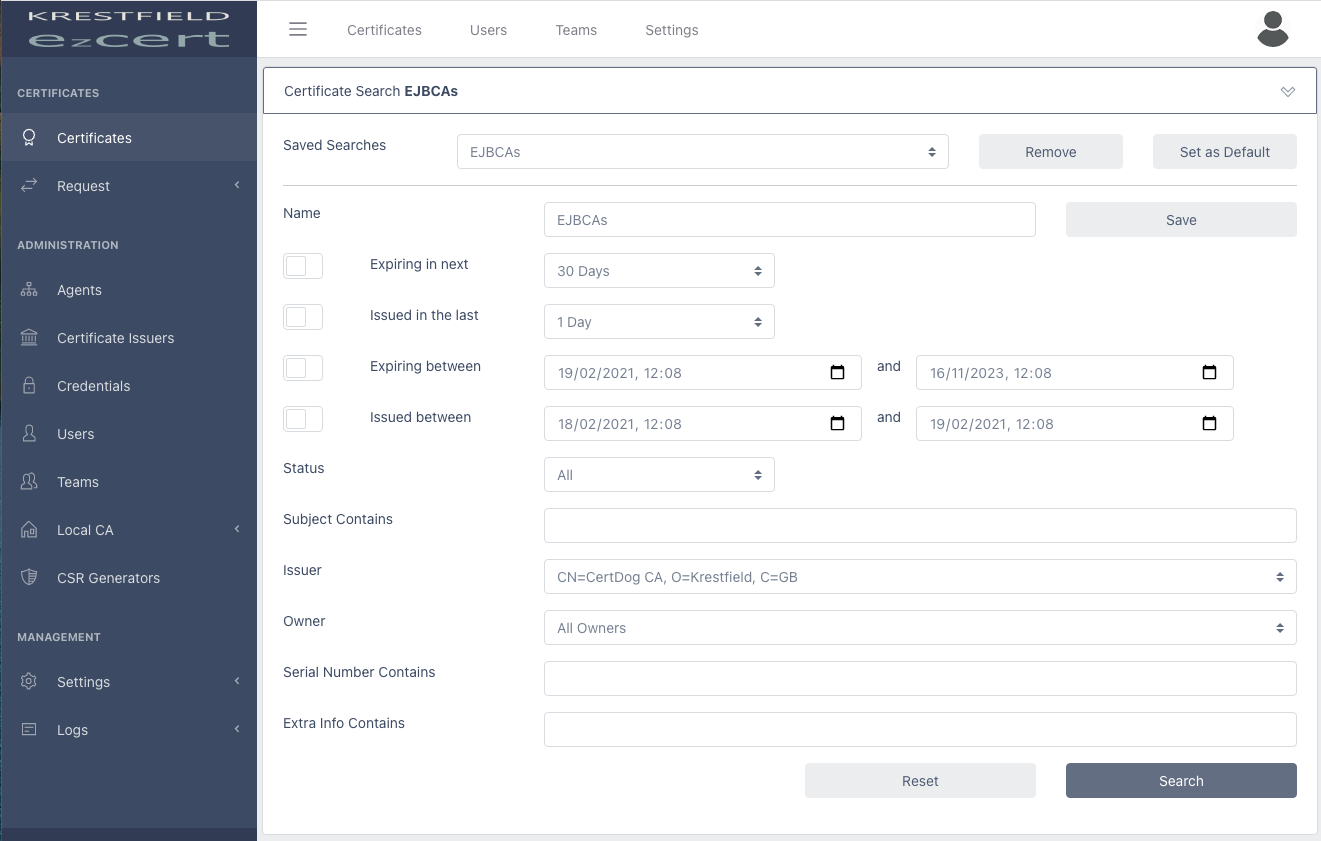
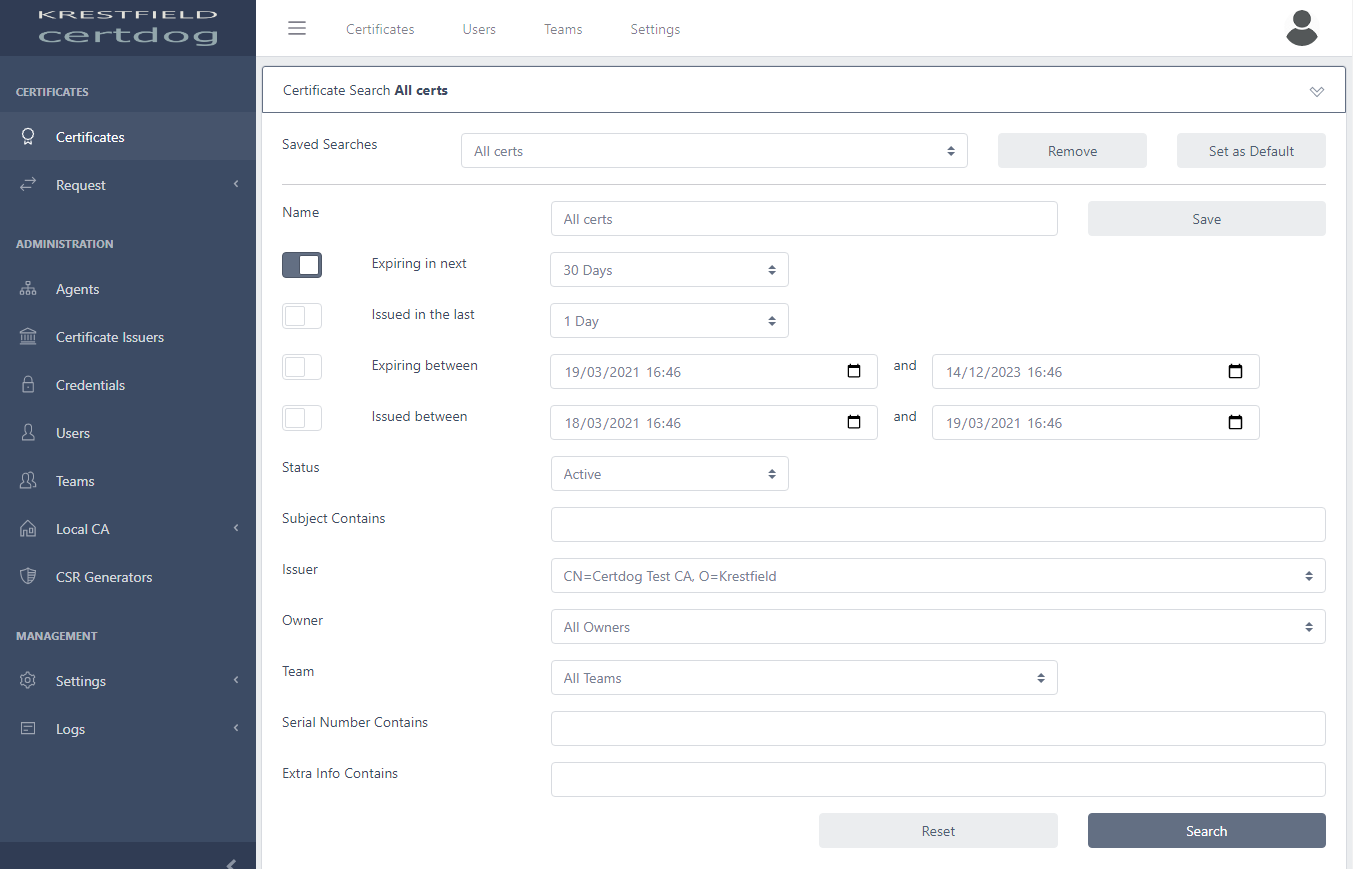
Docs updated

diff --git a/certdog/issuing-a-certificate.md b/certdog/issuing-a-certificate.md
@@ -23,9 +23,11 @@ If you want certdog to generate the request on your behalf and return a PKCS#12 
 
 **CSR Request**  
 
-<img src=".\images\csr_request.png" alt="image-20210222160916572" style="zoom:67%;" />
+<img src=".\images\csr_request.png" alt="image-20210319174811059" style="zoom:67%;" />
 
 From the *Issuer to Process Request* drop down, select the issuer you want to issue this certificate  
+
+Select the team that this certificate will be associated with  
 
 Click **Paste CSR** if you have copied the data or choose **Upload CSR** if you want to upload a file CSR  
 
@@ -43,13 +45,15 @@ Click **Request Certificate**
 
 **DN Request**
 
-<img src=".\images\dn_request.png" alt="image-20210121192611044" style="zoom:67%;" />
+<img src=".\images\dn_request.png" alt="image-20210319174905496" style="zoom:67%;" />
 
 For the **Subject DN** enter the name required e.g. *CN=domain.com,O=organisation*  
 
 For *Issuer to Process Request*, choose the required issuer  
 
 Choose a *CSR Generator* from the drop down  
+
+For *Team*, select the team you wish this certificate to be associated with  
 
 If you wish to add additional data to certificate, click **Click to add extra details**  
 
@@ -122,7 +126,7 @@ Authenticated OK
 **Request a certificate** 
 
 ```powershell
-PS C:\temp> Request-Cert -dn "CN=mydomain.com,O=My Org" -caName "Certdog TLS Issuer" -csrGeneratorName "RSA 2048 CSR Generator" -subjectAltNames @('DNS:www.mydomain.com','DNS:www.mydomain2.com') -p12Password password | Format-List
+PS C:\temp> Request-Cert -dn "CN=mydomain.com,O=My Org" -caName "Certdog TLS Issuer" -csrGeneratorName "RSA 2048 CSR Generator" -subjectAltNames @('DNS:www.mydomain.com','DNS:www.mydomain2.com') -teamName "Test Team" -p12Password password | Format-List
 
 
 certId  : 6009da2a2c7b373bdc95bcbe
@@ -146,7 +150,7 @@ Below is an example using cURL to login and request a certificate:
 token=$(curl --header "Content-Type: application/json" --request POST --data '{"username":"admin","password":"password"}' --insecure https://127.0.0.1/certdog/api/login | jq -r '.token')
 
 # Request a P123
-p12Data=$(curl --data '{ "caName":"Certdog TLS Issuer", "dn":"CN=testcert.com", "csrGeneratorName":"RSA 2048 CSR Generator", "p12Password":"password" }' --header "Content-Type: application/json" --header "Authorization: Bearer $token" --request POST --insecure https://127.0.0.1/certdog/api/certs/request | jq -r '.p12Data')
+p12Data=$(curl --data '{ "caName":"Certdog TLS Issuer", "dn":"CN=testcert.com", "csrGeneratorName":"RSA 2048 CSR Generator", "p12Password":"password", "teamName":"Test Team" }' --header "Content-Type: application/json" --header "Authorization: Bearer $token" --request POST --insecure https://127.0.0.1/certdog/api/certs/request | jq -r '.p12Data')
 
 echo $p12Data
 ```

diff --git a/certdog/searching_certificates.md b/certdog/searching_certificates.md
@@ -18,7 +18,7 @@ For more advanced searches, click the Certificate Search bar:
 
 Which will open the available search options:  
 
-<img src=".\images\search_options.png" alt="image-20210122134034640" style="zoom:67%;" />
+<img src=".\images\search_options.png" alt="image-20210319175222870" style="zoom:67%;" />
 
 Select the options you wish to search on. The top items (those with a check box beside them) will only be  included in the search if the check box is ticked  
 
@@ -53,3 +53,17 @@ The resulting query is an **AND** of all items (not an **OR**). For example, if 
       Check **Expiring between** and set the dates as follows
 
 ![image-20210122135430648](.\images\expiring_2023.png)
+
+
+
+## Saving Searches
+
+If there is a particular search that you wish to easily recall, once configured, enter a name for this search and click Save:
+
+<img src=".\images\saving_searches1.png" alt="image-20210319175444785" style="zoom:67%;" />
+
+You may then select this search from the drop down list to populate the details
+
+<img src=".\images\saving_searches2.png" alt="image-20210319175550798" style="zoom:67%;" />
+
+If you wish one of these searches to be the initial search whenever you click Certificates, click the **Set as Default** button. This will then use this search by default

diff --git a/certdog/screen_shots.md b/certdog/screen_shots.md
@@ -14,7 +14,9 @@ nav_order: 1
 
 A wide range of search options and the ability to save specific searches
 
-<img src=".\images\cert_search_ss.png" alt="image-20210222090831681" style="zoom:67%;" />
+<img src=".\images\cert_search_ss.png" alt="image-20210319174314375" style="zoom:67%;" />
+
+
 
 
 
@@ -30,7 +32,7 @@ View certificate details and history
 
 Request a certificate by providing a Distinguished Name
 
-<img src=".\images\dn_request_ss.png" alt="image-20210222091029876" style="zoom:67%;" />
+<img src=".\images\dn_request_ss.png" alt="image-20210319174524532" style="zoom:67%;" />
 
 
 
